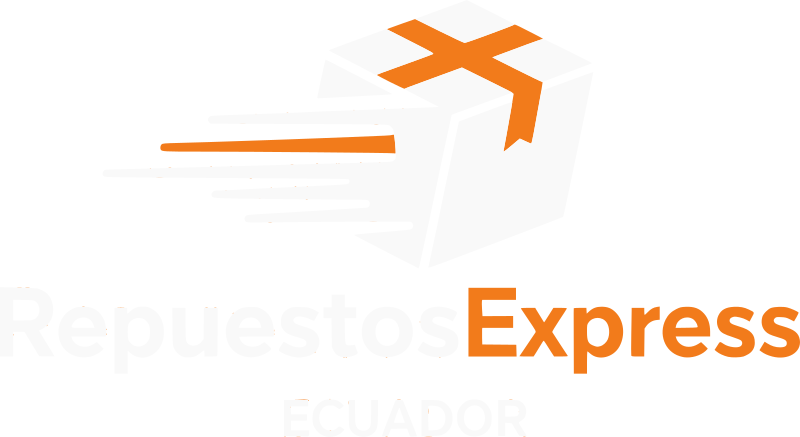
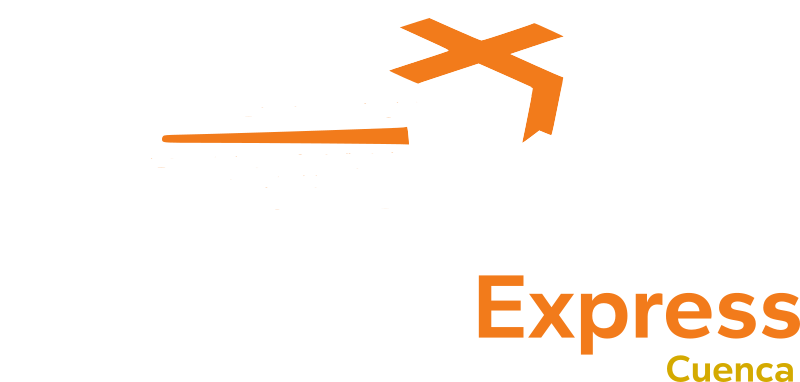
cambio nom Auto

diff --git a/index.html b/index.html
@@ -3,7 +3,18 @@
 <head>
   <meta charset="UTF-8" />
   <meta name="viewport" content="width=device-width, initial-scale=1.0" />
-  <title>Repuestos Express Ecuador</title>
+
+  <!-- INICIO: Título y Metadata Actualizados -->
+  <title>Autopartes Express Cuenca</title>
+  <meta name="description" content="Importamos repuestos originales y alternativos para todas las marcas en Cuenca. Lo que no hay aquí, lo traemos por ti. El mejor soporte para el usuario y el taller.">
+  
+  <meta property="og:title" content="Autopartes Express Cuenca">
+  <meta property="og:description" content="No dejes que un repuesto detenga tu reparación. Importamos para todas las marcas.">
+  <meta property="og:type" content="website">
+  <meta property="og:image" content="https://repuestosexpresscuenca.github.io/reeccaja.png">
+  <meta property="og:url" content="https://repuestosexpresscuenca.github.io/">
+  <!-- FIN: Título y Metadata Actualizados -->
+  
   <link rel="icon" href="reeccaja.png" type="image/png">
   <style>
     :root {
@@ -25,16 +36,24 @@
     
     header { background: rgba(26, 26, 26, 0.7); backdrop-filter: blur(20px); -webkit-backdrop-filter: blur(20px); border-bottom: 1px solid var(--color-border); padding: 1rem 3rem; display: flex; justify-content: space-between; align-items: center; position: sticky; top: 0; z-index: 100; }
     .logo-container { display: flex; align-items: center; gap: 1rem; text-decoration: none; }
-    .logo { height: 45px; cursor: pointer; }
+    .logo { height: 45px; cursor: pointer; flex-shrink: 0; }
     .header-title {
+      color: var(--color-text-primary);
+      line-height: 1.2;
+    }
+    .header-title .main-title {
       font-size: 1.3rem;
       font-weight: 700;
-      color: var(--color-text-primary);
-      letter-spacing: 0.5px;
+      display: block;
     }
-    .header-title .subtitle-text { display: inline; } /* visible por defecto */
-
-    .btn-whatsapp-header { background-color: var(--color-accent); color: #1a1a1a; padding: 0.7rem 1.5rem; text-decoration: none; border-radius: 8px; font-weight: 700; transition: all 0.3s ease; border: none; text-transform: uppercase; letter-spacing: 0.5px; display: flex; align-items: center; gap: 0.5rem; }
+    .header-title .subtitle-text {
+      font-size: 0.85rem;
+      font-weight: 400;
+      color: var(--color-text-secondary);
+      display: block;
+    }
+    
+    .btn-whatsapp-header { background-color: var(--color-accent); color: #1a1a1a; padding: 0.7rem 1.5rem; text-decoration: none; border-radius: 8px; font-weight: 700; transition: all 0.3s ease; border: none; text-transform: uppercase; letter-spacing: 0.5px; display: flex; align-items: center; gap: 0.5rem; flex-shrink: 0; }
     .btn-whatsapp-header:hover { background-color: var(--color-accent-dark); transform: translateY(-2px); }
     .btn-whatsapp-header svg { width: 24px; height: 24px; }
     
@@ -151,34 +170,43 @@
     .validation-popup ul { list-style-type: none; padding-left: 0; }
     .validation-popup li { font-weight: 500; }
 
-    /* --- INICIO: ESTILOS RESPONSIVOS PARA MÓVILES --- */
     @media (max-width: 768px) {
       header {
         padding: 1rem 1.5rem;
+        gap: 0.5rem; /* Reduce gap on mobile */
+      }
+      .header-title .main-title {
+        font-size: 1rem; /* Adjust font size for mobile */
       }
       .header-title .subtitle-text {
-        display: none; /* Oculta el texto secundario en móviles */
+        font-size: 0.7rem; /* Adjust font size for mobile */
+      }
+      .btn-whatsapp-header span {
+          display: none; /* Ocultar el texto "WhatsApp" en móviles */
+      }
+      .btn-whatsapp-header {
+          padding: 0.7rem; /* Hacer el botón más cuadrado */
       }
       .hero {
         padding: 3rem 1rem 2rem;
       }
       .hero h1 {
-        font-size: clamp(2rem, 8vw, 2.8rem); /* Tamaño de fuente más pequeño para móviles */
+        font-size: clamp(2rem, 8vw, 2.8rem);
       }
       .hero p {
-        font-size: 1.2rem; /* Tamaño de subtítulo más pequeño */
+        font-size: 1.2rem;
       }
       main {
         padding: 0 1rem;
       }
       .form-container {
-        grid-template-columns: 1fr; /* Cambia a una sola columna */
+        grid-template-columns: 1fr;
       }
       #sparePartsForm {
         padding: 1.5rem;
       }
       #selected-brand-display {
-        position: static; /* Quita el sticky para que fluya normalmente */
+        position: static;
         margin-top: 2rem;
       }
       .content-section {
@@ -188,8 +216,6 @@
         font-size: 1.5rem;
       }
     }
-    /* --- FIN: ESTILOS RESPONSIVOS PARA MÓVILES --- */
-
   </style>
 </head>
 <body>
@@ -200,10 +226,10 @@
 
   <header>
     <a href="#" class="logo-container">
-      <img src="reeccaja.png" alt="Repuestos Express Ecuador Logo" class="logo" />
+      <img src="reeccaja.png" alt="Autopartes Express Cuenca Logo" class="logo" />
       <span class="header-title">
-        RepuestosExpress - Cuenca.Ec.
-        <span class="subtitle-text"> / No detengas tu reparación</span>
+        <span class="main-title">AutopartesExpress - Cuenca.Ec.</span>
+        <span class="subtitle-text">Repuestos Originales o Alternos de Calidad & Que un repuesto no detenga tu reparación.</span>
       </span>
     </a>
     <a href="https://wa.me/593999115626" class="btn-whatsapp-header" target="_blank">
@@ -213,9 +239,9 @@
   </header>
 
   <section class="hero">
-    <img src="reecwhite.png" alt="Repuestos Express Ecuador Icon" class="hero-logo" />
-    <h1>Importamos repuestos. Entregamos soluciones!</h1>
-    <p>Repuestos Originales o Alternos de Calidad  & Que un repuesto mo detenga tu reparación.</p>
+    <img src="reecwhite.png" alt="Autopartes Express Cuenca Icon" class="hero-logo" />
+    <h1>Importamos repuestos. Entregamos soluciones.</h1>
+    <p>Repuestos Originales o Alternos de Calidad & Que un repuesto no detenga tu reparación.</p>
   </section>
 
   <main>
@@ -307,7 +333,6 @@
       
       const marcasPopulares = ["Chevrolet", "Kia", "Toyota", "Hyundai", "Suzuki", "Renault", "Great Wall", "Mazda", "Nissan", "Ford", "Volkswagen", "Mitsubishi"];
       
-      // --- INICIO DE LA ACTUALIZACIÓN: LISTA DE MODELOS COMPLETA Y CORREGIDA ---
       const marcasFullList = {
         "Chevrolet": ["Onix", "Onix RS", "Onix Turbo Sedán", "Joy HB", "Joy Sedán", "Aveo", "Spark GT", "Spark Life", "Beat", "Sail", "Cavalier", "Cruze", "Bolt", "Bolt-EUV", "Groove", "Tracker", "Captiva", "Captiva XL", "Equinox-EV", "Blazer-RS-EV", "Tahoe", "Trailblazer", "Montana", "D-Max (varias gen.)", "Colorado", "Silverado", "Blazer (hist.)", "Trooper", "LUV", "Luv-D-Max", "Rodeo", "Gemini", "Corsa", "Esteem", "Forsa", "Vitara (3 puertas)", "Vitara (5 puertas)", "Grand Vitara", "Blue-Bird", "chasis MR-buses"],
         "Kia": ["Picanto", "Rio", "Rio-5", "Soluto", "Cerato", "K3", "Carens", "Carnival", "Stonic", "Stonic Hybrid", "Seltos", "Sonet", "Sportage", "Sorento", "Niro", "Niro-EV", "EV6", "EV5", "EV9", "Soul-EV"],
@@ -338,8 +363,7 @@
         "Mercedes-Benz": ["A-Class", "C-Class", "E-Class", "S-Class", "GLA", "GLC", "GLE", "GLS", "CLA", "G-Class"],
         "Porsche": ["911", "Cayman", "Boxster", "Macan", "Cayenne", "Taycan", "Panamera", "718", "924", "928"]
       };
-      // --- FIN DE LA ACTUALIZACIÓN ---
-
+      
       const marcasOtras = Object.keys(marcasFullList).filter(m => !marcasPopulares.includes(m));
       const marcasOrdenadas = [...marcasPopulares, ...marcasOtras];
       
@@ -412,11 +436,9 @@
         }
         checkAllFields();
         
-        // --- INICIO DE LA SOLUCIÓN: Scroll suave al campo de modelo ---
         setTimeout(() => {
             modeloSelect.scrollIntoView({ behavior: 'smooth', block: 'center' });
         }, 100);
-        // --- FIN DE LA SOLUCIÓN ---
       };
       
       const populateLogos = () => {
